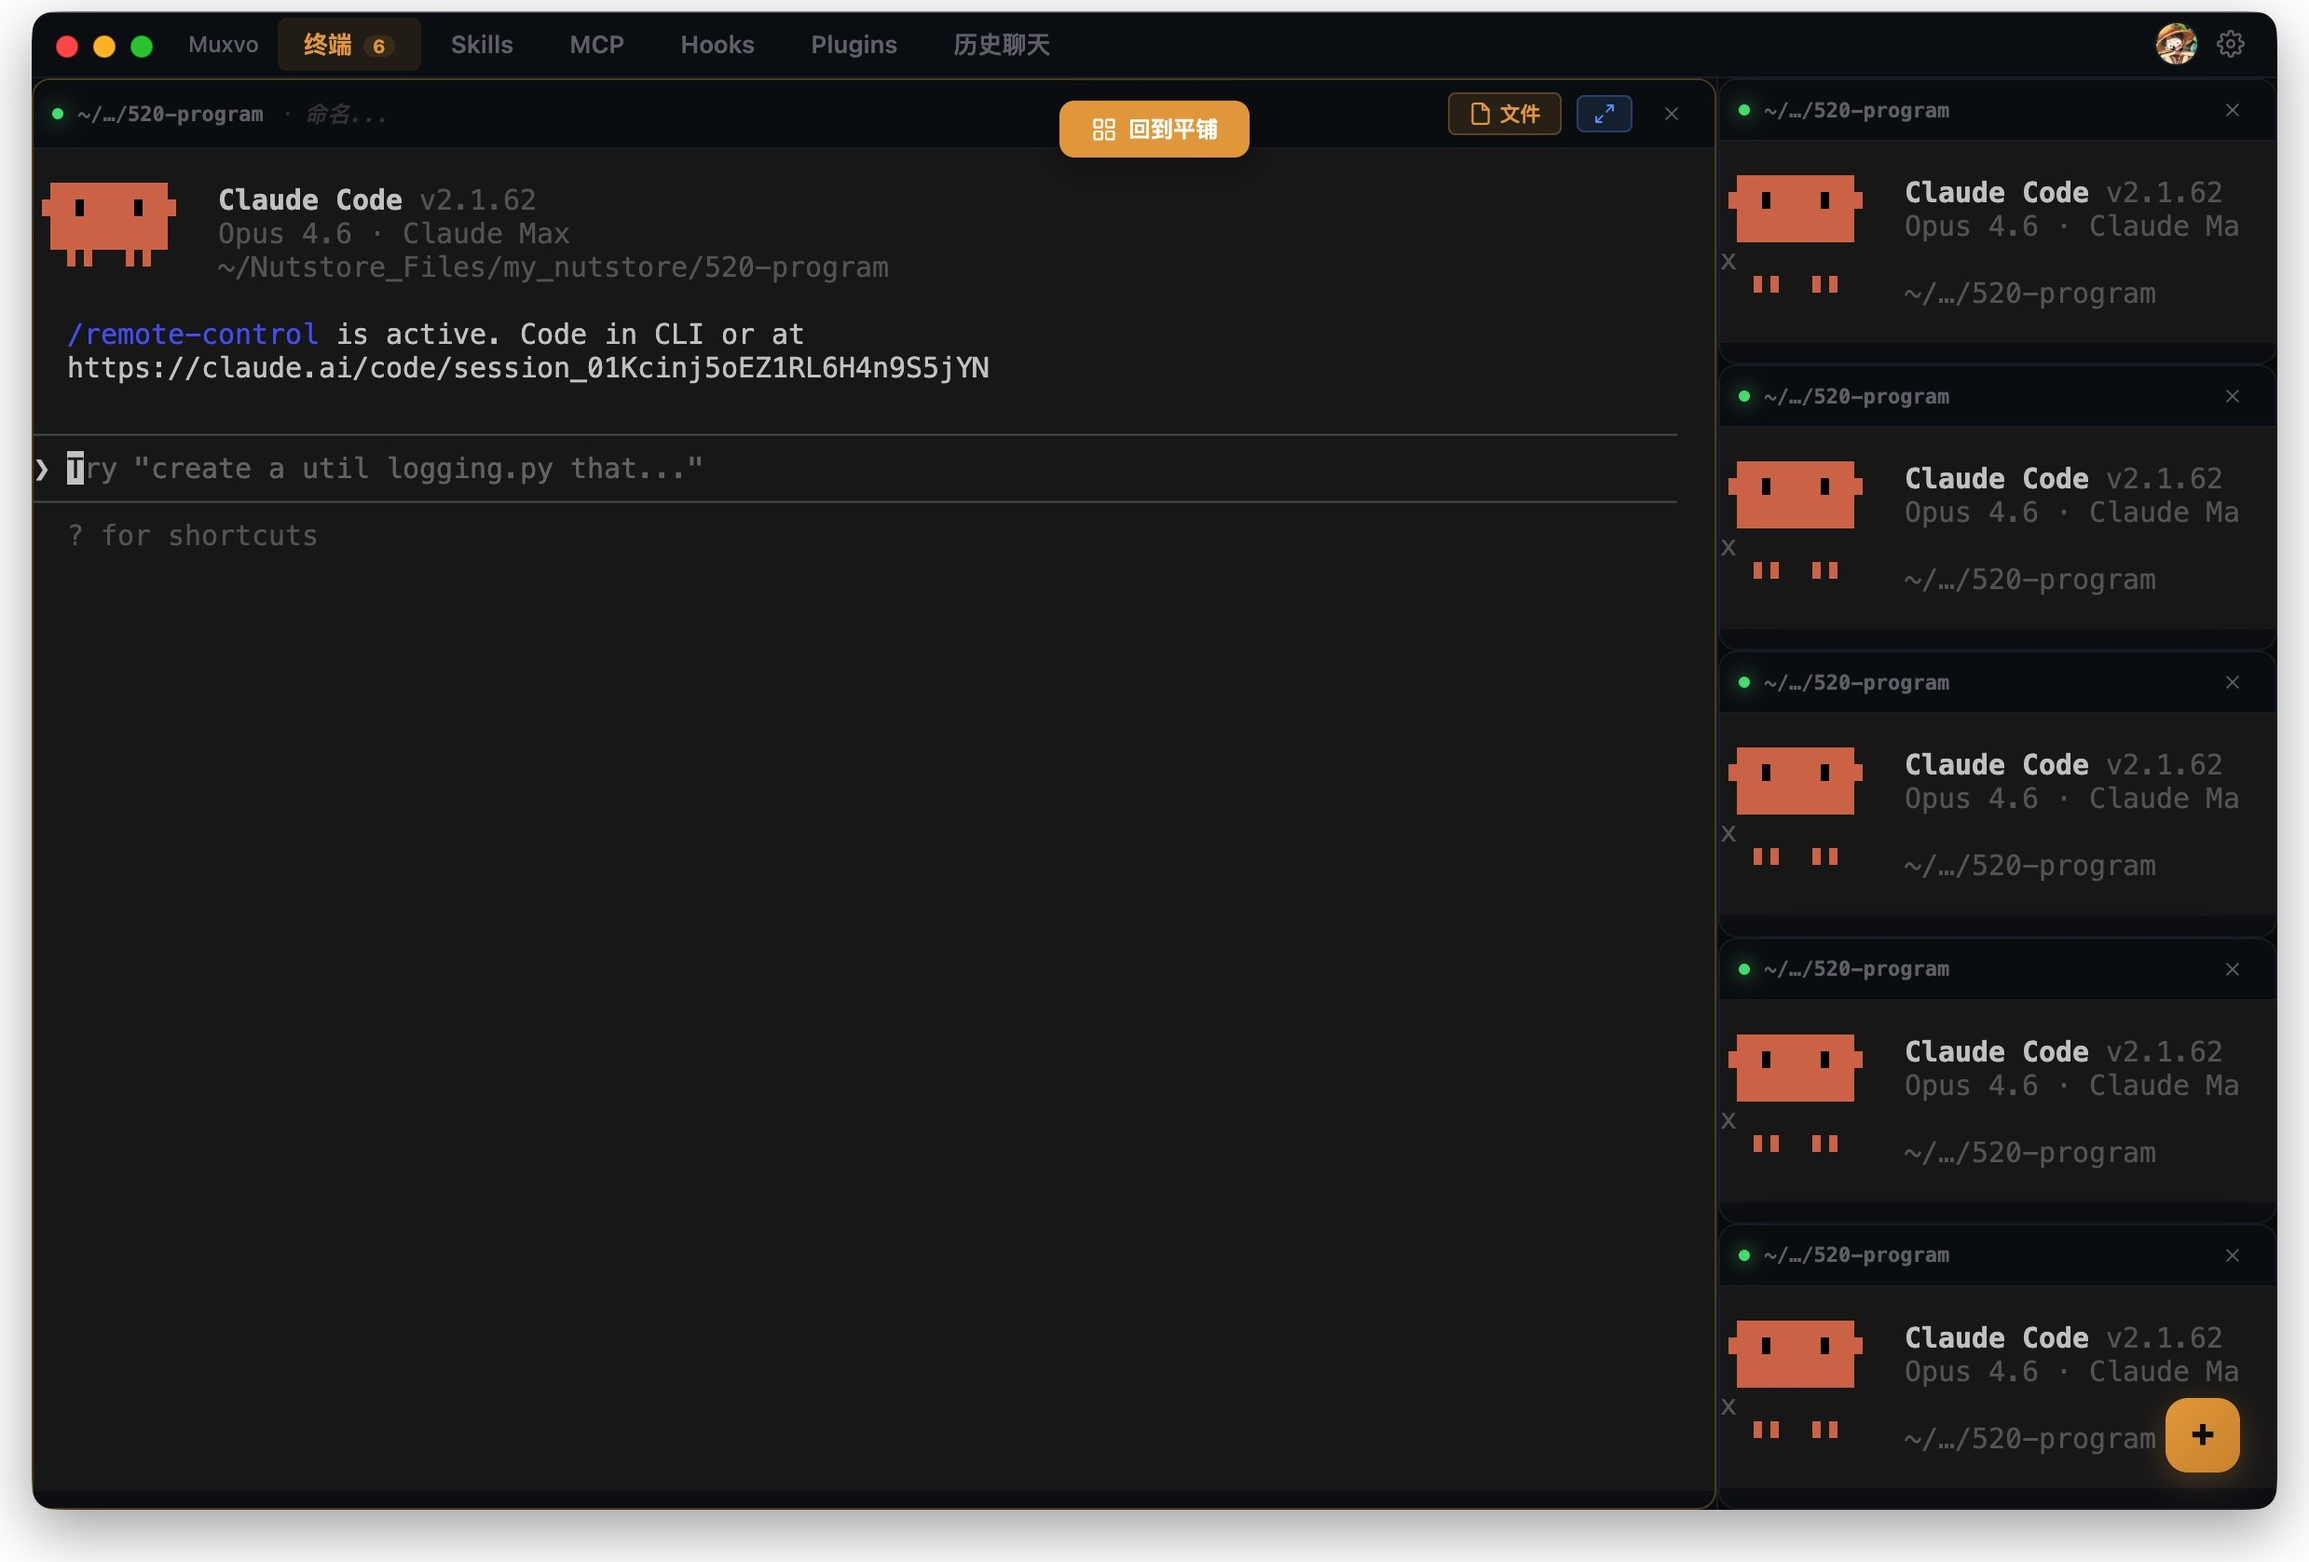
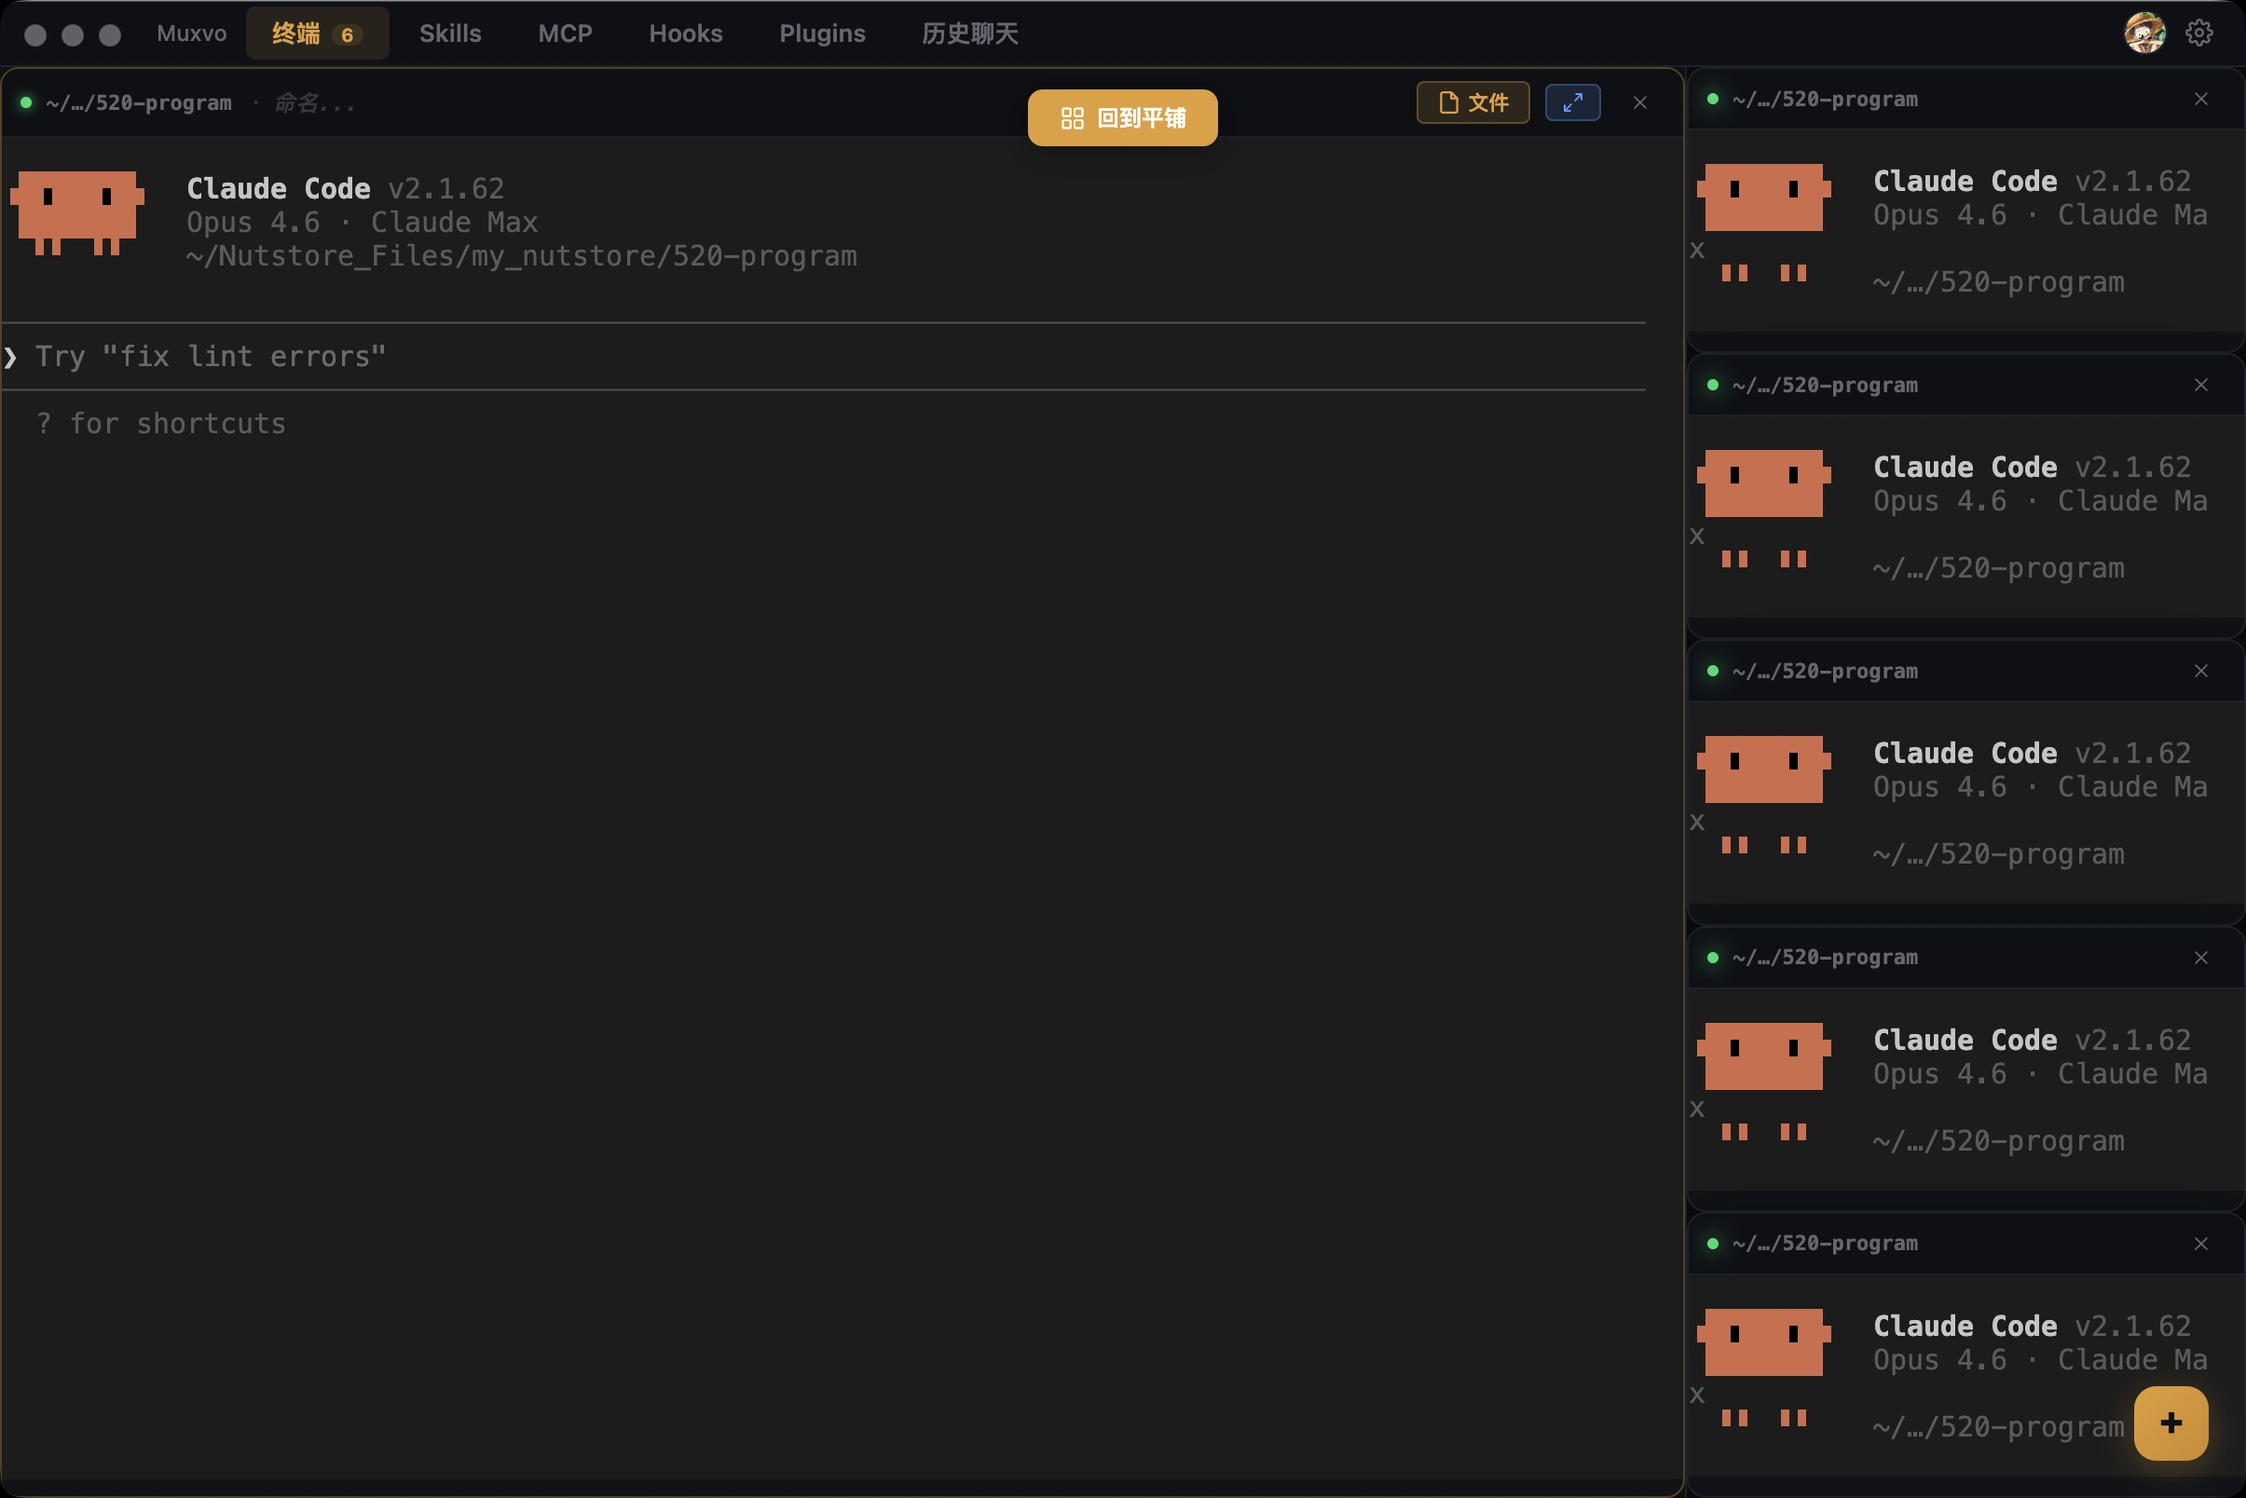
✨ style: 更新首页英雄区域截图和简化组件结构
- 替换深色模式下的终端截图文件（dark-4terminals.jpg 和 dark-focused.jpg），优化视觉效果
- 移除英雄区域模拟窗口的标题栏元素（红黄绿圆点、标题文字和标签页）
- 调整截图显示尺寸，从 2764x1876 缩小至 2410x1608 像素

diff --git a/web/src/components/home/Hero.tsx b/web/src/components/home/Hero.tsx
@@ -33,27 +33,13 @@ export function Hero() {
       {/* Real product screenshot */}
       <div className="mv-hero__mock fade-up">
         <div className="mv-mock">
-          {/* Title bar */}
-          <div className="mv-mock__bar">
-            <span className="mv-mock__dot mv-mock__dot--r" />
-            <span className="mv-mock__dot mv-mock__dot--y" />
-            <span className="mv-mock__dot mv-mock__dot--g" />
-            <span className="mv-mock__bar-title">Muxvo</span>
-            <div className="mv-mock__bar-tabs">
-              <span className="mv-mock__bar-tab mv-mock__bar-tab--active">Terminals</span>
-              <span className="mv-mock__bar-tab">Chat</span>
-              <span className="mv-mock__bar-tab">Config</span>
-            </div>
-          </div>
-
-          {/* Screenshot */}
           <div className="mv-mock__screenshot">
             <img
               src="/screenshots/dark-4terminals.jpg"
               alt="Muxvo terminal grid — multiple AI CLI sessions at a glance"
               loading="eager"
-              width="2764"
-              height="1876"
+              width="2410"
+              height="1608"
             />
           </div>
         </div>
